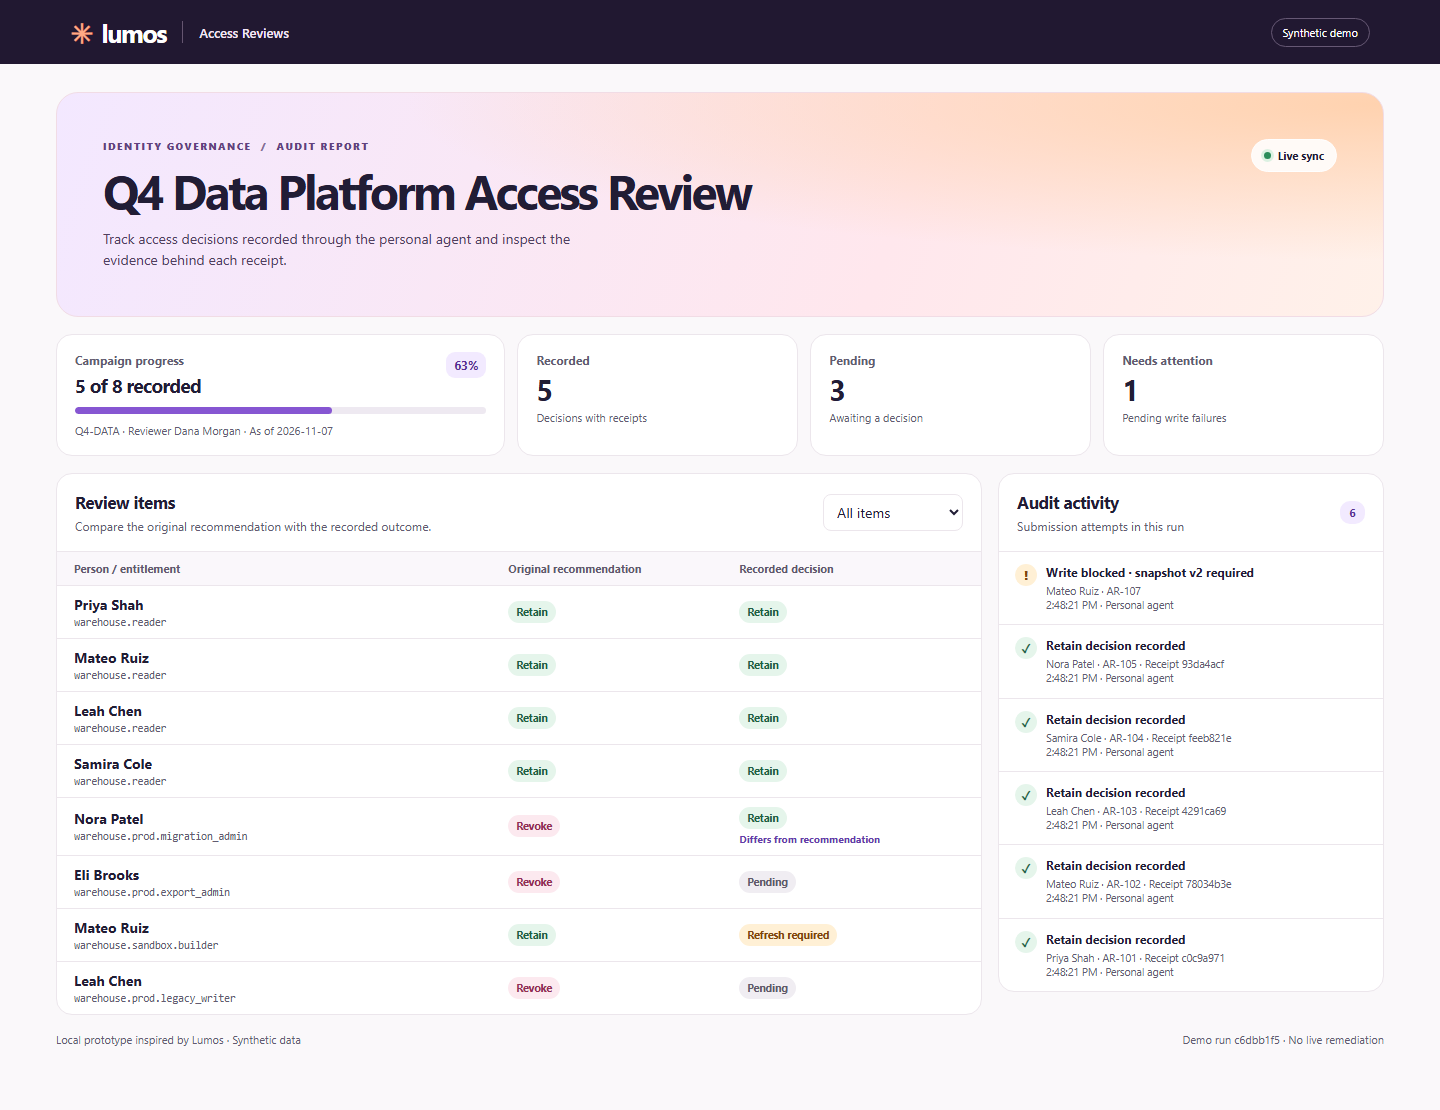
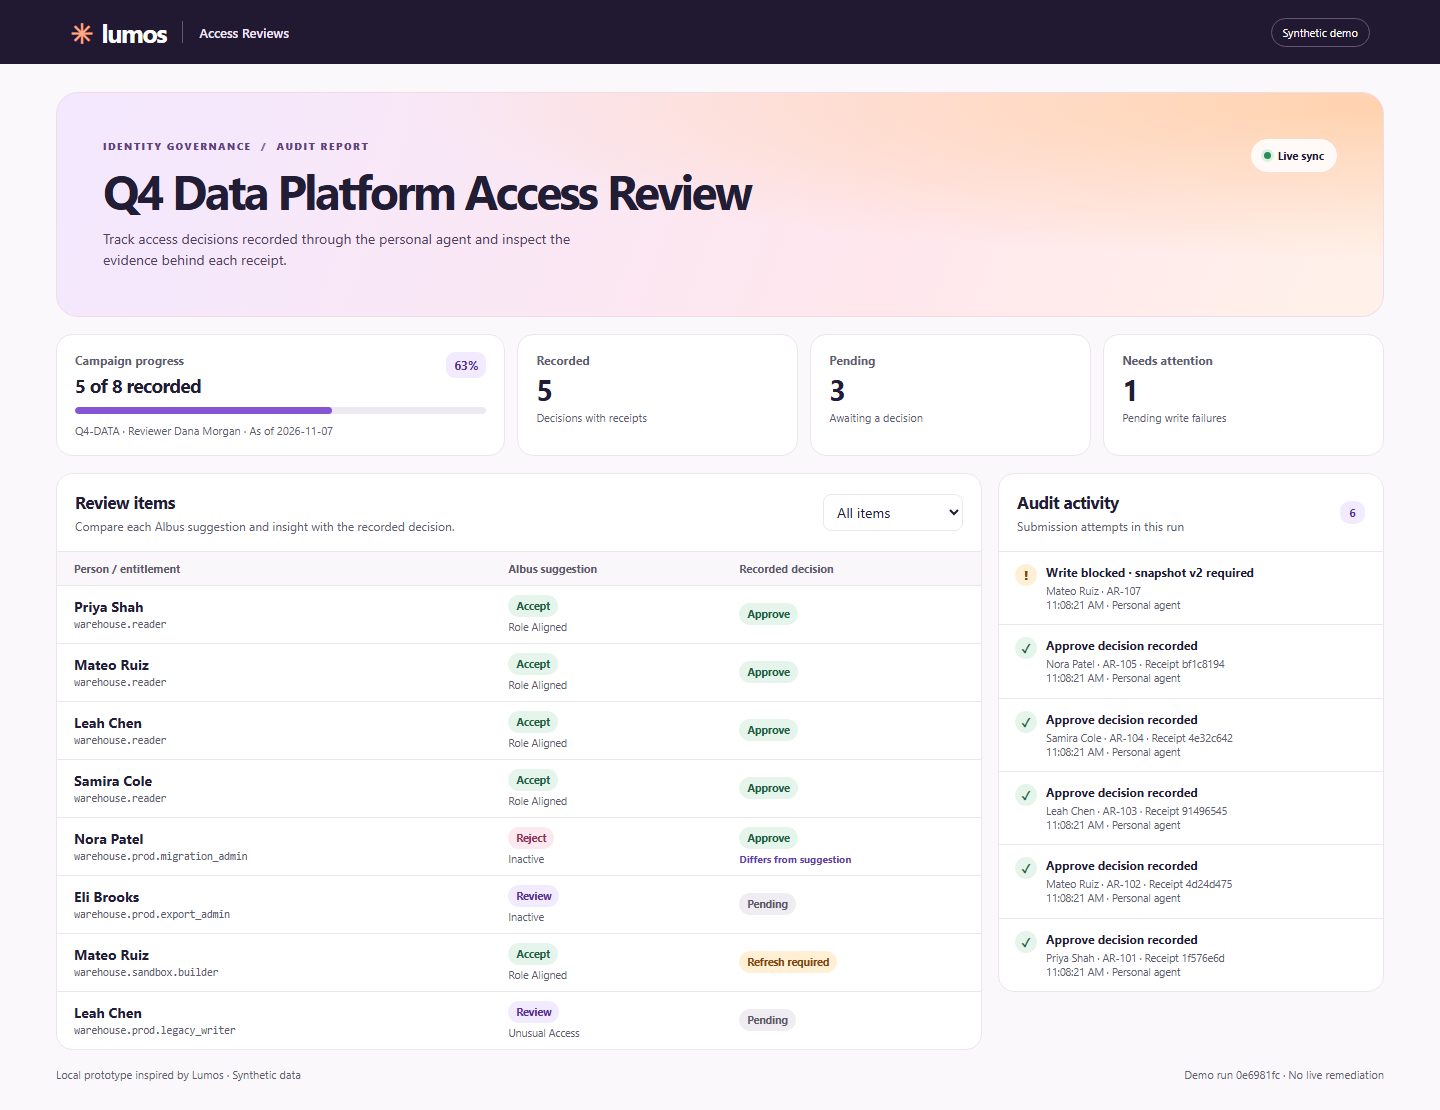
Align demo with Lumos Albus review categories

diff --git a/server/report/report.js b/server/report/report.js
@@ -4,7 +4,6 @@ const byId = (id) => document.getElementById(id);
 const escapeHtml = (value) => String(value ?? "").replace(/[&<>"']/g, (char) => ({
   "&": "&amp;", "<": "&lt;", ">": "&gt;", '"': "&quot;", "'": "&#39;",
 })[char]);
-const titleCase = (value) => value[0].toUpperCase() + value.slice(1);
 const formatTime = (value) => new Intl.DateTimeFormat(undefined, {
   hour: "numeric", minute: "2-digit", second: "2-digit",
 }).format(new Date(value));
@@ -17,8 +16,20 @@ function pill(style, text) {
   return `<span class="pill ${style}">${escapeHtml(text)}</span>`;
 }
 
-function outcome(value) {
-  return pill(value === "retain" ? "retain" : "revoke", titleCase(value));
+function suggestion(value) {
+  return {
+    accept: pill("retain", "Accept"),
+    reject: pill("revoke", "Reject"),
+    review: pill("review", "Review"),
+  }[value];
+}
+
+function decisionLabel(value) {
+  return value === "retain" ? "Approve" : "Reject";
+}
+
+function decision(value) {
+  return pill(value === "retain" ? "retain" : "revoke", decisionLabel(value));
 }
 
 function needsAttention(item) {
@@ -33,15 +44,17 @@ function renderRows() {
   byId("items").innerHTML = items.map((item) => {
     const original = item.original_recommendation.outcome;
     const recorded = item.receipt?.outcome;
-    const decision = recorded ? outcome(recorded) : needsAttention(item)
+    const result = recorded ? decision(recorded) : needsAttention(item)
       ? pill("warning", item.latest_attempt.status === "refresh_required" ? "Refresh required" : "Write failed")
       : pill("pending", "Pending");
-    const changed = recorded && recorded !== original ? '<div class="changed">Differs from recommendation</div>' : "";
+    const expected = { accept: "retain", reject: "revoke" }[original];
+    const changed = recorded && expected && recorded !== expected ? '<div class="changed">Differs from suggestion</div>' : "";
+    const insights = escapeHtml(item.insight_categories.join(" · "));
     return `<tr>
       <td><button type="button" class="item-button" data-item="${escapeHtml(item.id)}"
         aria-label="${escapeHtml(item.person + ", " + item.entitlement + ", audit details")}">${escapeHtml(item.person)}</button>
         <div class="entitlement">${escapeHtml(item.entitlement)}</div></td>
-      <td>${outcome(original)}</td><td>${decision}${changed}</td>
+      <td>${suggestion(original)}<div class="insight">${insights}</div></td><td>${result}${changed}</td>
     </tr>`;
   }).join("") || '<tr><td class="empty" colspan="3">No items in this view.</td></tr>';
 }
@@ -52,7 +65,7 @@ function renderEvents() {
   byId("events").innerHTML = report.events.map((event) => {
     const recorded = event.status === "recorded";
     const item = items.get(event.item_id);
-    const message = recorded ? `${titleCase(event.outcome)} decision recorded`
+    const message = recorded ? `${decisionLabel(event.outcome)} decision recorded`
       : event.status === "refresh_required" ? `Write blocked · snapshot v${event.current_snapshot_version} required`
       : event.status.replaceAll("_", " ");
     const receipt = recorded ? ` · Receipt ${event.receipt_id.slice(0, 8)}` : "";
@@ -72,11 +85,12 @@ function renderDetail() {
   const section = (title, body) => `<section class="detail-section"><h3>${title}</h3>${body}</section>`;
   byId("detail-id").textContent = `${item.id} · SNAPSHOT V${item.snapshot_version}`;
   byId("detail-title").textContent = item.person;
-  const original = section("Original recommendation",
-    `${outcome(recommendation.outcome)} <span class="muted">Snapshot v${recommendation.snapshot_version}</span>
+  const original = section("Albus suggestion",
+    `${suggestion(recommendation.outcome)} <span class="muted">Snapshot v${recommendation.snapshot_version}</span>
+    <p class="insight">${escapeHtml(item.insight_categories.join(" · "))}</p>
     <p>${escapeHtml(recommendation.basis)}</p>`);
   const result = receipt ? section("Recorded decision",
-    `${outcome(receipt.outcome)}<p>${escapeHtml(receipt.reason)}</p>
+    `${decision(receipt.outcome)}<p>${escapeHtml(receipt.reason)}</p>
     <p class="muted">Reviewer ${escapeHtml(report.reviewer.name)} · Snapshot v${receipt.snapshot_version}</p>
     <p class="muted">Receipt <code>${escapeHtml(receipt.receipt_id)}</code></p>
     <p class="muted">Remediation: no access changes in this simulation</p>`)

diff --git a/server/report/index.html b/server/report/index.html
@@ -36,12 +36,12 @@
     <section class="report" aria-label="Review details">
       <div class="panel">
         <div class="panel-header">
-          <div><h2>Review items</h2><p>Compare the original recommendation with the recorded outcome.</p></div>
+          <div><h2>Review items</h2><p>Compare each Albus suggestion and insight with the recorded decision.</p></div>
           <label class="filter"><span class="sr-only">Filter review items</span><select id="filter"><option value="all">All items</option><option value="recorded">Recorded</option><option value="pending">Pending</option><option value="attention">Needs attention</option></select></label>
         </div>
         <div class="table-scroll" role="region" aria-label="Review items table" tabindex="0">
           <table>
-            <thead><tr><th scope="col">Person / entitlement</th><th scope="col">Original recommendation</th><th scope="col">Recorded decision</th></tr></thead>
+            <thead><tr><th scope="col">Person / entitlement</th><th scope="col">Albus suggestion</th><th scope="col">Recorded decision</th></tr></thead>
             <tbody id="items"><tr><td colspan="3">Loading review items…</td></tr></tbody>
           </table>
         </div>

diff --git a/server/report/report.css b/server/report/report.css
@@ -60,6 +60,8 @@ td:nth-child(2) { width: 25%; }
 .pill { display: inline-block; border-radius: 15px; padding: 4px 8px; font-size: 10.5px; font-weight: 720; white-space: nowrap; }
 .retain { color: #205f44; background: #e5f5eb; }
 .revoke { color: #942e55; background: #fce9ef; }
+.review { color: #573095; background: #f2eaff; }
+.insight { color: var(--muted); font-size: 10.5px; margin-top: 3px; }
 .pending { color: #61596a; background: #f0edf2; }
 .warning { color: #81440c; background: #fff0d5; }
 .changed { color: #653bab; font-size: 10px; font-weight: 700; margin-top: 3px; }

diff --git a/evaluation/verify.py b/evaluation/verify.py
@@ -90,6 +90,12 @@ def run(state, report):
         items = page["records"] + tool("get_review_items", **review, cursor=4)["records"]
         assert len({i["person"] for i in items}) == 6
         assert len({i["id"] for i in items}) == 8
+        assert [i["original_recommendation"]["outcome"] for i in items] == [
+            "accept", "accept", "accept", "accept", "reject", "review", "accept", "review",
+        ]
+        assert {category for i in items for category in i["insight_categories"]} == {
+            "Role Aligned", "Inactive", "Unusual Access",
+        }
         initial_report = report()
         assert initial_report["run_id"] == run_id
         assert len(initial_report["items"]) == 8
@@ -117,7 +123,7 @@ def run(state, report):
         operator(state, "advance-snapshot")
         result = tool("submit_decisions", **batch, reviewer_confirmed=True)
         assert [r["status"] for r in result["results"]] == ["recorded"] * 5 + ["refresh_required"]
-        assert result["results"][4]["original_recommendation"]["outcome"] == "revoke"
+        assert result["results"][4]["original_recommendation"]["outcome"] == "reject"
         assert result["results"][4]["evidence"][-1] == {"id": "EX-MIGRATION", "version": 1}
         assert tool("submit_decisions", **batch, reviewer_confirmed=True) == result
         audit = report()
@@ -125,7 +131,7 @@ def run(state, report):
         assert audit["events"][0]["status"] == "refresh_required"
         nora = next(i for i in audit["items"] if i["id"] == "AR-105")
         assert nora["receipt"] == result["results"][4]
-        assert nora["original_recommendation"]["outcome"] == "revoke"
+        assert nora["original_recommendation"]["outcome"] == "reject"
         exception = next(s for s in nora["evidence_sources"] if s["id"] == "EX-MIGRATION")
         assert exception["version"] == 1 and "SEC-217" in exception["excerpt"]
         assert "different payload" in tool("submit_decisions", **(batch | {"decisions": decisions[:1]}),

diff --git a/docs/demo-script.md b/docs/demo-script.md
@@ -5,10 +5,10 @@ Start the report with `python server/src/main.py report --open` and keep it open
 | Time | Say or do | Show |
 | --- | --- | --- |
 | 0:00 | “Help me complete my access review.” | A clean run, Dana's assigned campaign, eight pending items, and the report at 0 of 8 recorded. |
-| 0:45 | “Which four can I review together, and what evidence backs them?” | AR-101 through AR-104, role policy and individual grant and usage records. |
-| 1:30 | “What changes the recommendation on Nora? Where does that leave Eli?” | Current EX-MIGRATION on the exact production grant, expired EX-EXPIRED on Eli's grant, and the pending owner question. |
+| 0:45 | “Which four can I review together, and what evidence backs them?” | AR-101 through AR-104 share an Accept suggestion and Role Aligned insight. Show the role policy and individual usage records. |
+| 1:30 | “What changes the recommendation on Nora? Where does that leave Eli?” | Nora starts at Reject. EX-MIGRATION covers her exact grant. Eli starts at Review. EX-EXPIRED and the missing renewal explain why he stays pending. |
 | 2:30 | Include AR-107 in the proposed version 1 batch. Leave AR-106 and AR-108 pending. After the proposal is visible, run `python .\server\src\main.py advance-snapshot` in PowerShell. | The batch still displays version 1 of AR-107. |
-| 3:00 | “I confirm the exact batch you showed.” | Switch to the report. It updates to five recorded, three pending, and one needing attention. Click Nora's name to show the original revoke recommendation, recorded retain decision, and cited exception. |
+| 3:00 | “I confirm the exact batch you showed.” | Switch to the report. It updates to five recorded, three pending, and one needing attention. Click Nora's name to show Albus's original Reject suggestion, the reviewer's recorded Approve decision, and the cited exception. |
 | 3:45 | “Retry the identical batch with the same key, then refresh AR-107 and show me what changed.” | Same receipt IDs, original recommendation preserved, new owner closure, and a new proposal awaiting confirmation. |
 | 4:30 | “Show me the audit record and what remains pending.” | Show the blocked write in Audit activity and unchanged receipt count after the retry. Use the Pending filter to isolate open work. |
 

diff --git a/docs/tool-contracts.md b/docs/tool-contracts.md
@@ -13,4 +13,6 @@
 
 A submission reserves its idempotency key for the exact ordered payload within a run. Each item and its audit attempt commit together in an independent SQLite transaction. Replaying the same key and payload returns the saved receipts and errors and can finish work interrupted between items. A changed payload needs a new key. An item can have only one recorded decision. A stale write returns refresh_required with the current snapshot. A reset invalidates earlier run IDs, including those of submissions interrupted between items. Keep pending items out of the decision payload.
 
+Original recommendation outcomes are `accept`, `reject`, and `review`, following Lumos's documented Albus suggestions. Insight categories explain the suggestion. The demo submission contract uses `retain` and `revoke` for the two supported reviewer decisions. The report labels them **Approve** and **Reject**. An item awaiting a human decision remains **Pending**, including when Albus suggests **Review**. [Lumos reviewer workflow](https://support.lumos.com/articles/8143225870-reviewing-user-access-in-lumos)
+
 Source IDs and versions must be authorized for the specific item. The demo validates citation scope and availability. The reviewer verifies that the cited material supports the proposed decision.

diff --git a/README.md b/README.md
@@ -36,6 +36,8 @@ Use `python3` on systems where that is the Python command. The report runs at [1
 
 The report shows progress, original recommendations, recorded decisions and failed attempts. Select a person to inspect the reason, evidence versions and receipt. This read-only prototype is inspired by Lumos Access Reviews and runs on synthetic local data.
 
+The synthetic campaign starts with five **Accept**, one **Reject**, and two **Review** suggestions. The report shows Albus insight categories such as **Role Aligned**, **Inactive**, and **Unusual Access** separately from the suggestion and the reviewer's recorded decision. [Lumos Agentic Access Reviews documentation](https://support.lumos.com/articles/9591496417-agentic-access-reviews-with-ai-driven-decisions)
+
 ![Audit report after five decisions and one stale write](docs/audit-report.png)
 
 ## Start in one message
